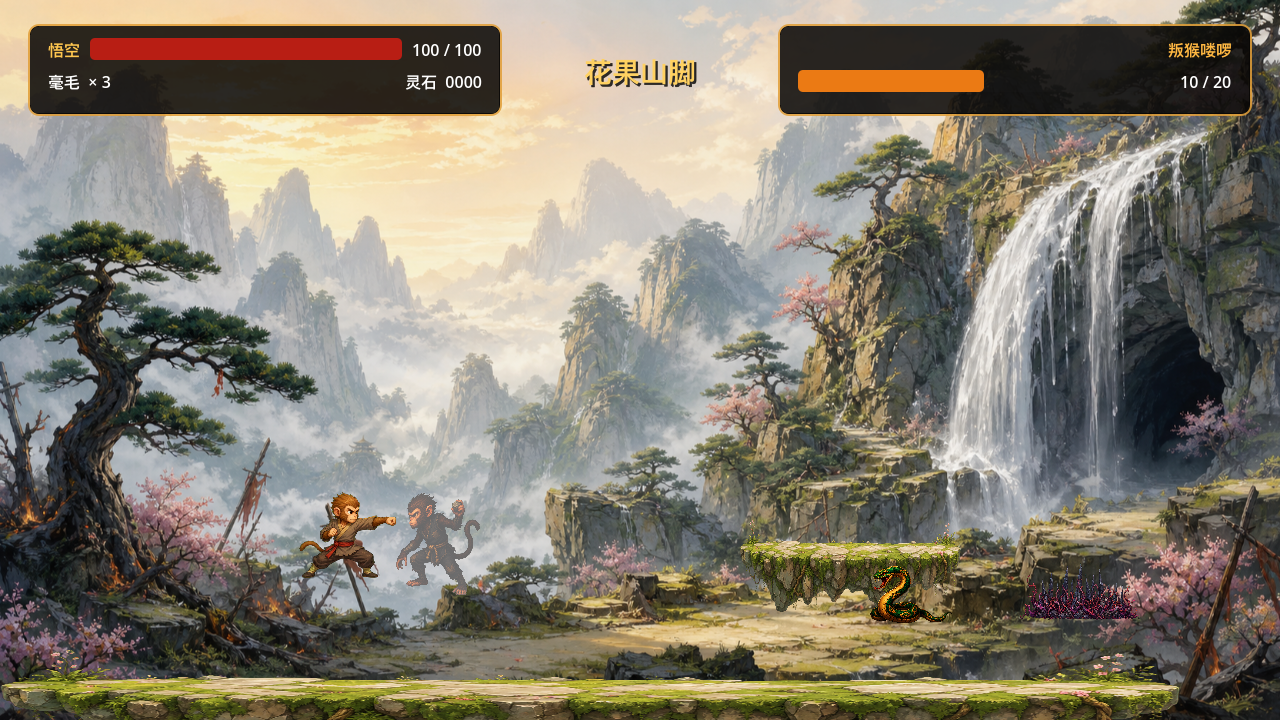
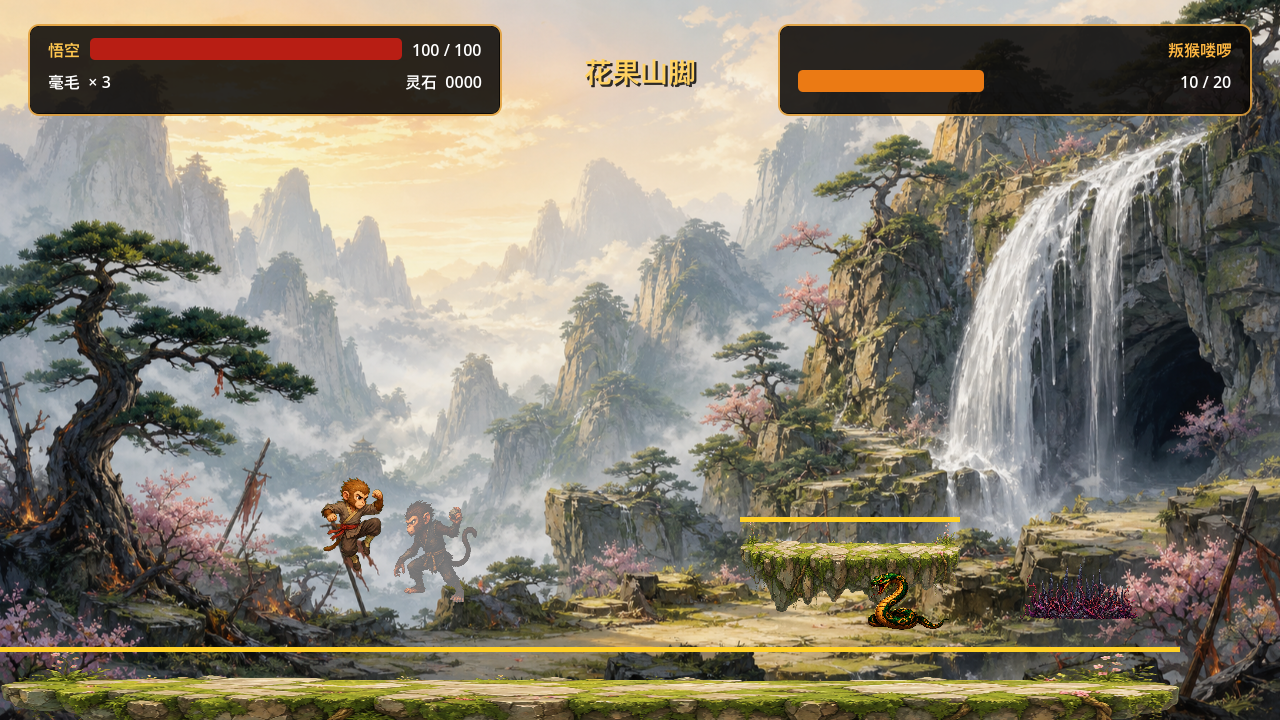
feat: add release attacks and standable guides

Changed region(s): [[0.0, 0.7639, 0.9375, 0.9167], [0.2188, 0.6722, 0.375, 0.8556], [0.5625, 0.7028, 0.75, 0.7333]]

diff --git a/readme.md b/readme.md
@@ -23,7 +23,8 @@
 - `A` / `D`：移动
 - `S`：蹲下
 - `K` / `空格`：跳跃、二段跳
-- `J`：空手三连击
+- `J` 短按松开：空手三连击
+- `J` 长按松开：蓄力攻击
 - `J` + `K`：定身术
 - `Esc`：暂停
 
